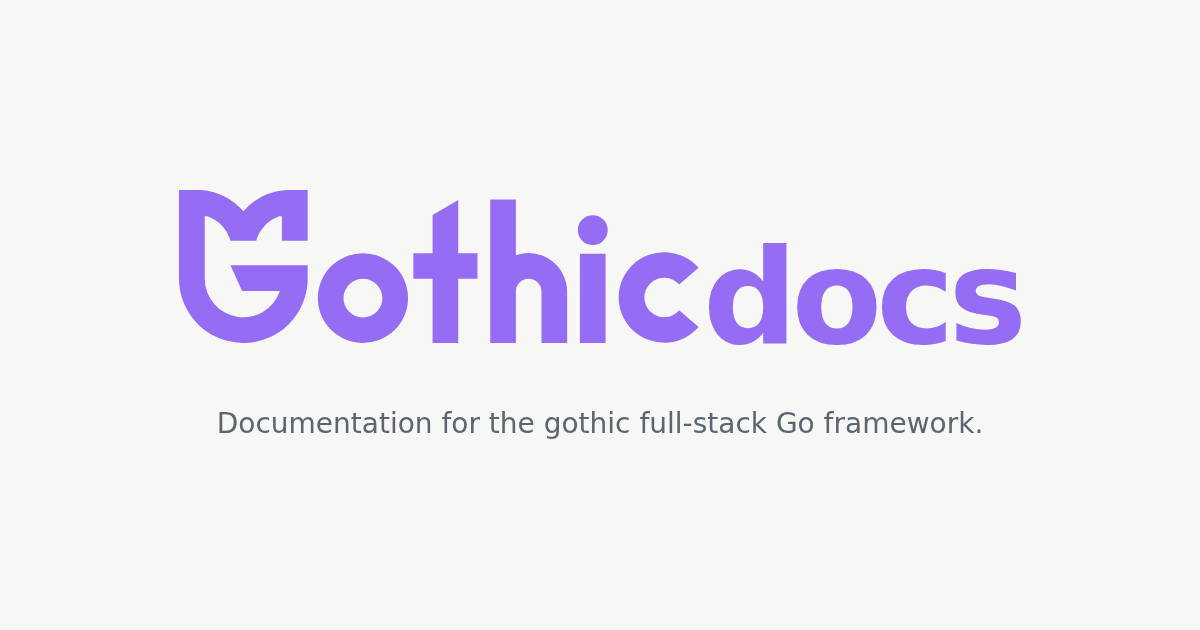
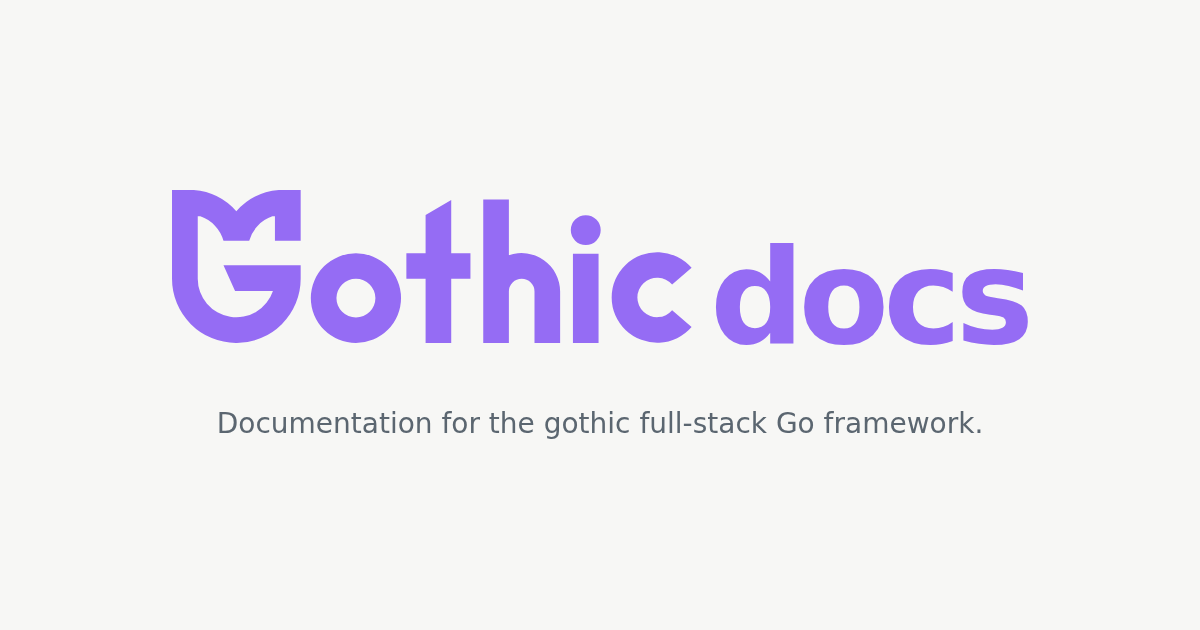
style: space the docs wordmark and regenerate the social card

Changed region(s): [[0.1233, 0.3016, 0.8633, 0.5429], [0.185, 0.3016, 0.2158, 0.3317]]

diff --git a/style.css b/style.css
@@ -123,7 +123,7 @@ button {
 .brand {
 	display: flex;
 	align-items: baseline;
-	gap: 6px;
+	gap: 8px;
 	color: var(--accent);
 	text-decoration: none;
 }

diff --git a/assets/og.html b/assets/og.html
@@ -25,7 +25,7 @@
 	.brand {
 		display: flex;
 		align-items: baseline;
-		gap: 4px;
+		gap: 18px;
 		color: #956cf4;
 	}
 
